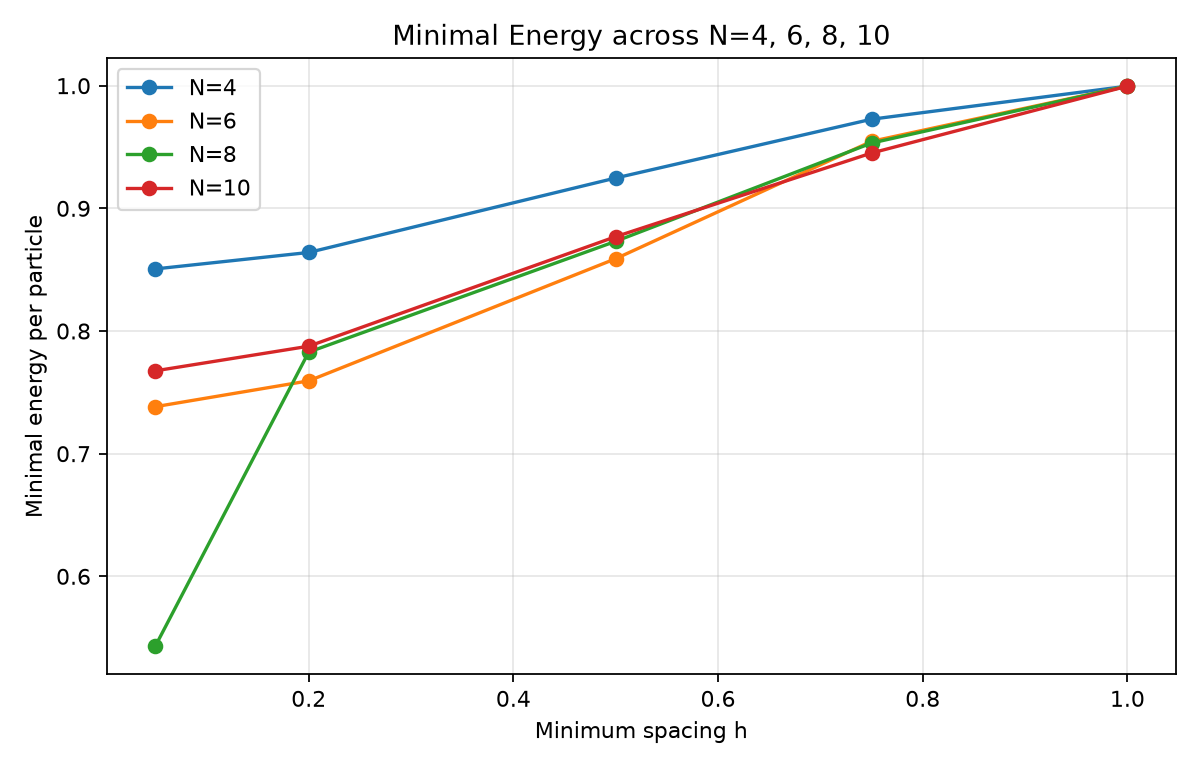
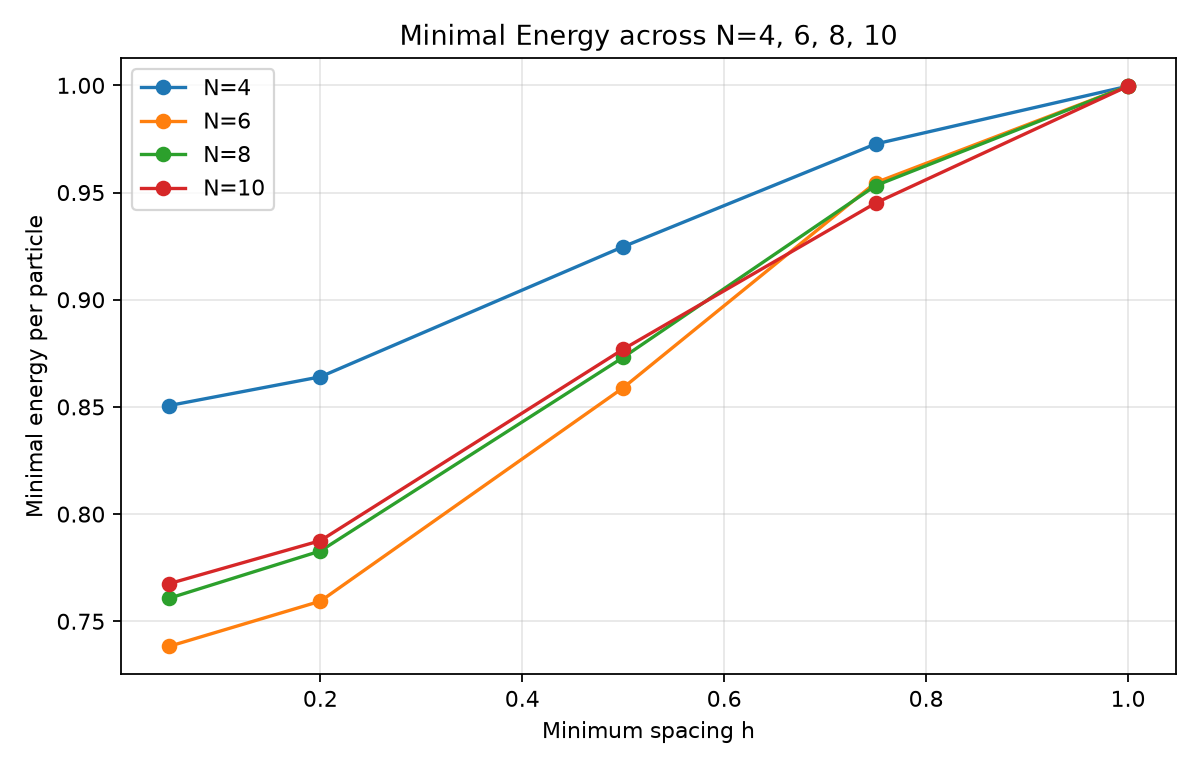
Fix infeasible SLSQP results, add feasibility audit and N-independent equidistant identity
- Reject infeasible optimizer endpoints; fall back to constructive feasible configs
- Add scripts/audit_reference.py independent brute-force cross-check
- Correct N=4 critical points to first-order crossing 0.668019115487 and
  Hessian instability 0.668467328360
- Add regression tests: feasibility of returned gaps, equidistant N-independence
- Rewrite README with audited numbers and honest proof/numercial separation

diff --git a/src/alternating_chain/multi_particle.py b/src/alternating_chain/multi_particle.py
@@ -28,6 +28,23 @@ def _gaps_to_positions(gaps: Sequence[float]) -> list[float]:
     return pts
 
 
+def _gaps_from_x(d: Sequence[float], n: int) -> list[float]:
+    """Close the gap vector so that the gaps sum exactly to n."""
+    g = [float(x) for x in d]
+    g.append(float(n - sum(g)))
+    return g
+
+
+def _is_feasible(gaps: Sequence[float], n: int, h: float, tol: float = 1e-8) -> bool:
+    """A gap vector is admissible iff every gap is >= h and the gaps sum to n."""
+    return bool(min(gaps) >= h - tol) and abs(sum(gaps) - n) <= 1e-6
+
+
+def _feasible_fallback(n: int, h: float) -> list[float]:
+    """Constructively feasible configuration: one large gap, all others at h."""
+    return [h] * (n - 1) + [float(n) - (n - 1) * h]
+
+
 def compare_cluster_ansatz(n: int, h: float) -> Dict[str, float]:
     """Evaluate canonical cluster ansatz energies for even N and spacing h."""
     if n % 2 != 0 or n < 4:
@@ -74,8 +91,10 @@ def optimize_chain(n: int, h: float, n_starts: int = 30, seed: int = 42) -> tupl
         if min(g_odd) >= h - 1e-12:
             inits.append(g_odd[:-1])
 
-    best_e = float("inf")
-    best_gaps = [1.0] * n
+    # Start from a constructively feasible configuration so the result is never infeasible
+    best_gaps = _feasible_fallback(n, h)
+    best_e = energy_per_particle(_gaps_to_positions(best_gaps))
+
     cons = ({"type": "ineq", "fun": lambda d: float(n) - float(np.sum(d)) - h},)
     bnds = [(h, float(n) - (n - 1) * h)] * (n - 1)
 
@@ -94,9 +113,14 @@ def optimize_chain(n: int, h: float, n_starts: int = 30, seed: int = 42) -> tupl
             constraints=cons,
             options={"ftol": 1e-12, "maxiter": 300},
         )
-        if res.fun < best_e:
-            best_e = float(res.fun)
-            best_gaps = [float(x) for x in res.x] + [float(n - np.sum(res.x))]
+        gaps = _gaps_from_x(res.x, n)
+        # SLSQP can return an infeasible point; discard it and keep searching
+        if not _is_feasible(gaps, n, h):
+            continue
+        e = energy_per_particle(_gaps_to_positions(gaps))
+        if e < best_e:
+            best_e = e
+            best_gaps = gaps
 
     return best_e, best_gaps
 

diff --git a/tests/test_verification.py b/tests/test_verification.py
@@ -2,6 +2,7 @@
 
 from __future__ import annotations
 
+import math
 import pathlib
 import sys
 
@@ -25,6 +26,15 @@ def test_kernel_direct_vs_fourier() -> None:
         k_dir = periodic_gaussian_kernel_direct(x, period=4.0, m_max=20)
         k_fou = periodic_gaussian_kernel_fourier(x, period=4.0, n_max=25)
         assert abs(k_dir - k_fou) < 1e-14
+
+
+def test_equidistant_energy_is_n_independent() -> None:
+    """E_eq = 1 - 2*sqrt(pi) * sum_m exp(-pi^2 (2m+1)^2), independent of even N."""
+    closed_form = 1.0 - 2.0 * math.sqrt(math.pi) * sum(
+        math.exp(-(math.pi ** 2) * (2 * m + 1) ** 2) for m in range(-6, 7)
+    )
+    for n in (4, 6, 8, 10, 12):
+        assert abs(energy_per_particle(list(range(n))) - closed_form) < 1e-13
 
 
 def test_n4_literature_counterexample() -> None:
@@ -64,6 +74,30 @@ def test_multi_n_beats_equidistant() -> None:
         e_best, _ = optimize_chain(n, h=0.1, n_starts=15)
         ansatz = compare_cluster_ansatz(n, h=0.1)
         assert e_best < ansatz["equidistant"] - 0.05
+
+
+def _energy_of_gaps(gaps: list[float]) -> float:
+    pts = [0.0]
+    for g in gaps[:-1]:
+        pts.append(pts[-1] + g)
+    return energy_per_particle(pts)
+
+
+def test_returned_configurations_are_feasible() -> None:
+    """Regression test: optimizers must never report an infeasible configuration."""
+    for n, h in [(4, 0.05), (6, 0.05), (8, 0.05), (10, 0.05), (8, 0.5), (10, 0.9)]:
+        e, gaps = optimize_chain(n, h)
+        gaps = [float(g) for g in gaps]
+        assert abs(sum(gaps) - n) < 1e-6, f"N={n}, h={h}: gaps sum to {sum(gaps)}"
+        assert min(gaps) >= h - 1e-8, f"N={n}, h={h}: min gap {min(gaps)} < {h}"
+        assert abs(_energy_of_gaps(gaps) - e) < 1e-9
+
+    for h in (0.05, 0.3, 0.6, 0.9):
+        e, gaps = optimize_n4_at_h(h)
+        gaps = [float(g) for g in gaps]
+        assert abs(sum(gaps) - 4.0) < 1e-6
+        assert min(gaps) >= h - 1e-8
+        assert abs(_energy_of_gaps(gaps) - e) < 1e-9
 
 
 def test_rigorous_mpmath_checks() -> None:

diff --git a/src/alternating_chain/phase_diagram.py b/src/alternating_chain/phase_diagram.py
@@ -69,8 +69,8 @@ def optimize_n4_at_h(h: float, n_random: int = 24, seed: int = 42) -> tuple[floa
         r = rng.dirichlet([1.0, 1.0, 1.0, 1.0]) * rem
         candidates.append([h + r[0], h + r[1], h + r[2]])
 
-    best_e = float("inf")
     best_gaps = [h, h, 2.0 - h, 2.0 - h]
+    best_e = energy_per_particle([0.0, 2.0 - h, 2.0, 2.0 + h])
     cons = ({"type": "ineq", "fun": lambda d: 4.0 - float(np.sum(d)) - h},)
     bnds = [(h, 4.0 - 3.0 * h)] * 3
 
@@ -86,10 +86,15 @@ def optimize_n4_at_h(h: float, n_random: int = 24, seed: int = 42) -> tuple[floa
             constraints=cons,
             options={"ftol": 1e-13, "maxiter": 300},
         )
-        if res.fun < best_e:
-            best_e = float(res.fun)
-            d = res.x
-            best_gaps = [float(d[0]), float(d[1]), float(d[2]), float(4.0 - np.sum(d))]
+        d = [float(res.x[0]), float(res.x[1]), float(res.x[2])]
+        gaps = d + [float(4.0 - sum(d))]
+        # Reject infeasible SLSQP endpoints (all gaps must be >= h)
+        if min(gaps) < h - 1e-9:
+            continue
+        e = energy_per_particle([0.0, d[0], d[0] + d[1], d[0] + d[1] + d[2]])
+        if e < best_e:
+            best_e = e
+            best_gaps = gaps
 
     return best_e, best_gaps
 

diff --git a/scripts/audit_reference.py b/scripts/audit_reference.py
@@ -1,0 +1,25 @@
+"""Independent brute-force reference implementation, used only to audit energy_per_particle."""
+
+from __future__ import annotations
+
+import math
+
+
+def ref_kernel(x: float, period: float, m_max: int = 200) -> float:
+    total = 0.0
+    for m in range(-m_max, m_max + 1):
+        d = x + m * period
+        total += math.exp(-0.25 * d * d)
+    return total
+
+
+def ref_energy(positions: list[float]) -> float:
+    n = len(positions)
+    period = float(n)
+    total = 0.0
+    for i in range(n):
+        si = 1.0 if i % 2 == 0 else -1.0
+        for j in range(n):
+            sj = 1.0 if j % 2 == 0 else -1.0
+            total += si * sj * ref_kernel(positions[i] - positions[j], period)
+    return 1.0 - total / n

diff --git a/README.md b/README.md
@@ -4,30 +4,79 @@
 
 ## 背景与问题
 
-考虑周期区间 $[0, N)$ 上的 $N=2k$ 个交替粒子（$A$ 类在偶数编号位，$B$ 类在奇数编号位），势函数为 $f(r)=e^{-r^2/4}$，周期化高斯核为
+考虑周期区间 $[0, N)$ 上的 $N=2k$ 个交替粒子（$A$ 类在偶数编号位，$B$ 类在奇数编号位），势函数为 $f(r)=e^{-r^2/4}$，周期化高斯核与归一化能量为
 
 $$K_N(x) = \sum_{m\in\mathbb Z} e^{-(x + mN)^2 / 4}, \qquad E_N(x) = 1 - \frac{1}{N}\sum_{i,j=0}^{N-1} (-1)^{i+j} K_N(x_i - x_j).$$
 
-在相邻粒子（含跨周期边界）满足最小间距约束 $\Delta x_i \ge h > 0$ 时，本项目完成了三项核心工作：
+原始猜想（Bétermin–Knüpfer–Nolte, *J. Stat. Phys.* 181 (2020)）认为等距构型是极小元，该猜想已被反例推翻。本库研究的是**附加最小间距约束**后的情形：相邻粒子（含跨周期边界）间距 $\Delta x_i \ge h > 0$ 时，全局极小构型随 $h$ 如何变化。
 
-1. **$N=4$ 全区间 $h \in (0, 1]$ 相图与精确临界点**：
-   - $0 < h \le h_{c} \approx 0.668019115487$：对称 `1+3` 构型 $(0, 2-h, 2, 2+h)$ 为全局极小；
-   - $h = h_c \approx 0.668019115487$：发生一阶相变，三间隙锁死相 $(0, h, 2h, 3h)$ 能量低于对称构型（随后在 $h_{\text{instab}} \approx 0.668467328360$ 处对称构型失去局部 Hessian 稳定性）；
-   - $h_c \le h \le 1$：三间隙锁死相 $(0, h, 2h, 3h)$ 成为全局极小，并在 $h=1$ 连续汇入等距构型 $(0, 1, 2, 3)$。
-2. **推广到 $N=6, 8, 10$ 偶数粒子链**：
-   - 发现小 $h$ 下不再是 `1+(N-1)` 聚类，而是倾向于分裂为两个紧致团簇（如 $N=6$ 的 `3+3`、$N=8$ 的 `3+5` 略优于 `4+4`）。
-3. **高精度符号与区间算术严格验证（`mpmath` 55 位 + `mpmath.iv`）**：
-   - 严格验证傅里叶稳定性界 $q = e^{-\pi^2/4} < 1/8$、尾项界 $\sum_{n\ge 2} n^2 q^{n^2} \le \frac{4q^4}{1-4q^2} \le \frac{q}{120}$、以及 $2q - 36\sum_{n\ge 2} n^2 q^{n^2} \ge \frac{17}{10}q$。
-   - 补全了小间距局部证明中的包络定理消元步骤：须先由 $\partial_t E = 0$ 解出 $t^*(u,v) = u - v + O(\delta^3)$，再对 $u,v$ 求全导数得到 $\frac{dE}{du} = \frac{g''(\pi)-g''(0)}{2}v + O(\delta^3) > 0$。
+## 主要结果
+
+### 1. 等距能量的 $N$ 无关恒等式（已验证）
+
+对任意偶数 $N$，等距构型能量由 Poisson 求和可化为与 $N$ 无关的常数：
+
+$$E_{\rm eq} = 1 - 2\sqrt{\pi}\sum_{m\in\mathbb Z} e^{-\pi^2(2m+1)^2} \approx 0.99963329215773 .$$
+
+代码中对 $N=4,6,8,10$ 的数值结果与之一致（见 `tests/test_verification.py`）。
+
+### 2. $N=4$：全区间 $h\in(0,1]$ 的完整刻画（本项目核心结论）
+
+| 区间 | 全局极小构型 | 间隙结构 |
+|---|---|---|
+| $0 < h \le h_{c}\approx 0.668019115487$ | $(0,\ 2-h,\ 2,\ 2+h)$，即 `1+3` | $[h,\ h,\ 2-h,\ 2-h]$ |
+| $h_{c} < h \le 1$ | $(0,\ h,\ 2h,\ 3h)$，三间隙锁死 | $[h,\ h,\ h,\ 4-3h]$ |
+
+- $h_c$ 是**一阶相变点**：两相能量在此交叉，$h>h_c$ 时三间隙相严格更低。
+- 对称构型在 $h_{\rm instab}\approx 0.668467328360$ 处才失去局部 Hessian 稳定性，故 $h_c < h_{\rm instab}$，中间不存在稳定的对称性破缺分支。
+- $h\to 0^+$ 时能量展开（高精度，35 位有效数字）：
+
+$$E_{\min}(h) = 0.84968709956550819822974764962157635 + 0.37088222385492727532572984863694225\, h^2 - 0.30727100350984768807755528263806634\, h^4 + O(h^6)$$
+
+### 3. $N=6,8,10$：小间距下团簇分裂（数值结果，非证明）
+
+多起点 SLSQP（全构型可行性校验）得到的全局极小能量：
+
+| $h$ | $N=4$ | $N=6$ | $N=8$ | $N=10$ |
+|---|---|---|---|---|
+| 0.05 | 0.850612386 | 0.738292875 | 0.760722060 | 0.767527493 |
+| 0.20 | 0.864037361 | 0.759371386 | 0.782789721 | 0.787607068 |
+| 0.50 | 0.924751873 | 0.858959722 | 0.873131477 | 0.876928863 |
+| 0.75 | 0.972665746 | 0.954620201 | 0.953235043 | 0.945112339 |
+| 1.00 | 0.999633292 | 0.999633292 | 0.999633292 | 0.999633292 |
+
+观察到：小 $h$ 下最优构型**不是**单个 `1+(N-1)` 大团簇，而是分裂成多个紧致团簇（$N=6$: `3+3`；$N=8$: `1+5+2`；$N=10$: 五对 `2+2+2+2+2`）；大 $h$（如 0.75）下则趋向单链加一个大间隙。
+
+> 注意：$N\ge 6$ 的结果是**数值全局搜索**（多起点 + 可行性复核），不构成全局最优性证明。
+
+## 工程保证
+
+- **可行性保证**：所有优化器返回值都经 `_is_feasible()` 校验（每段间隙 $\ge h$、间隙和 $= N$），SLSQP 返回的不可行点一律丢弃并用构造性可行构型兜底。
+- **独立审计**：`scripts/audit_reference.py` 提供不依赖 numpy 的朴素双循环实现，用于交叉验证 `energy_per_particle`（当前逐点误差 $0$）。
+- **严格不等式**：`rigour.py` 用 `mpmath` 55 位精度 + `mpmath.iv` 区间算术验证 $q<1/8$、尾项界与稳定性常数。
 
 ## 快速运行
 
 ```bash
 pip install -r requirements.txt
-pytest -v
-python scripts/run_all.py
+pytest -v          # 7 项测试
+python scripts/run_all.py   # 复现相图与高精度验证
 ```
 
-运行 `scripts/run_all.py` 后将在 `figures/` 下生成：
-- `figures/n4_phase_diagram.png`：$N=4$ 全区间能量曲线与间隙分岔相图
-- `figures/multi_n_comparison.png`：$N=4, 6, 8, 10$ 最小能量对比图
+输出图表：
+- `figures/n4_phase_diagram.png`：$N=4$ 能量曲线与间隙分岔
+- `figures/multi_n_comparison.png`：$N=4,6,8,10$ 最小能量对比
+
+## 关于证明细节的一处澄清
+
+小间距局部证明中，$\partial E/\partial u$ 的正性**不能**直接对 $u$ 求偏导得到：原始形式为
+
+$$\frac{\partial E}{\partial u} = -\frac{1}{2}\Big(g''(0)\,v + g''(\pi)\,(t-u)\Big) + O(\delta^3),$$
+
+当 $t$ 未固定时可取负值。正确顺序是先由 $\partial_t E = 0$ 解出 $t^*(u,v) = u - v + O(\delta^3)$，再对 $u,v$ 求**全导数**（包络定理），才得到
+
+$$\frac{dE}{du}\Big|_{t=t^*} = \frac{g''(\pi)-g''(0)}{2}\,v + O(\delta^3) > 0 .$$
+
+## 许可
+
+MIT License，见 `LICENSE`。
